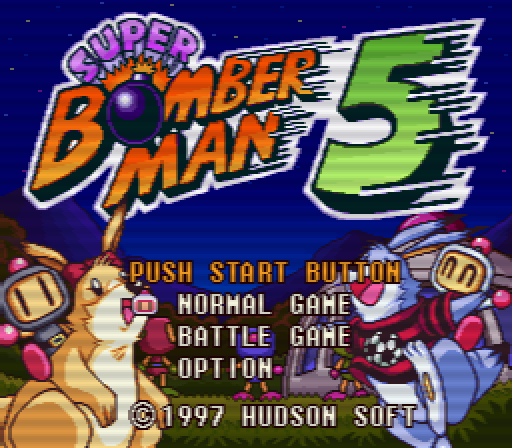
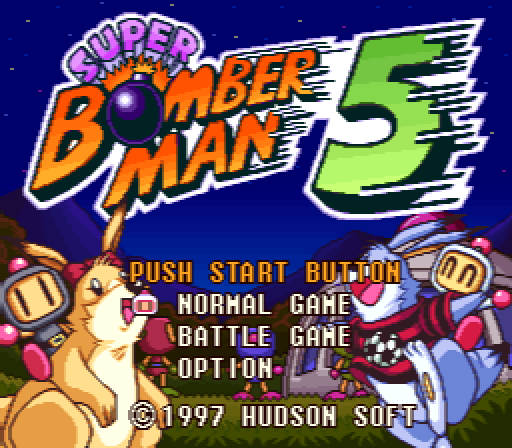
metroid progress

Changed region(s): [[0.0, 0.0312, 1.0, 1.0], [0.6562, 0.875, 0.6875, 0.9062]]

diff --git a/main.py b/main.py
@@ -63,6 +63,7 @@ def apply_crt_filter(filepath, scale = 1, blur=True, scanlines=True):
     img = cv2.imread(filepath)
     # Resize image
     height, width = img.shape[:2]
+    print(filename,height,width)
     new_h, new_w = 0,0
     if 0 < scale and scale < 1 and type(scale) == float:
         new_h = (int)(height/scale)
@@ -92,18 +93,27 @@ def apply_crt_filter(filepath, scale = 1, blur=True, scanlines=True):
     # alpha = 0.05
     # offset division = 5
     
-    if blur:
-        img_crt = cv2.blur(img_crt, (2,1))
+    # if blur:
+    #     img_crt = cv2.blur(img_crt, (2,1))
 
-    # Apply horizontal scanlines
-    if scanlines:
-        overlay = img_crt.copy()
-        num = 8
-        alpha = 0.05
-        for i in range(num+1):
-            temp = apply_scanlines(overlay,num,inplace=False,offset=num-i)
-            offset = (num-i)/12
-            img_crt = cv2.addWeighted(temp, alpha+offset, img_crt, 1-alpha-offset, 0)
+    # Apply basic scanlines
+    for i in range(height//2):
+        img_crt = cv2.line(img_crt, (0,i*2), (width,i*2),(0,0,0),1)
+    # Upscale to twice its regular resolution for subpixel detail
+    img_crt = cv2.resize(img_crt, (width*2,height*2), interpolation=cv2.INTER_NEAREST)
+    # Apply blur to simulate dithering
+    img_crt = cv2.GaussianBlur(img_crt,(7,1),1.5)
+    img_crt = cv2.GaussianBlur(img_crt,(1,3),0)
+
+    # # Apply horizontal scanlines
+    # if scanlines:
+    #     overlay = img_crt.copy()
+    #     num = 8
+    #     alpha = 0.05
+    #     for i in range(num+1):
+    #         temp = apply_scanlines(overlay,num,inplace=False,offset=num-i)
+    #         offset = (num-i)/12
+    #         img_crt = cv2.addWeighted(temp, alpha+offset, img_crt, 1-alpha-offset, 0)
     
 
     # Apply blur
@@ -139,16 +149,17 @@ def apply_crt_filter(filepath, scale = 1, blur=True, scanlines=True):
     # img_crt = overlayImages(img_crt,img_bilateral,0)
 
     # Resize back to original size
-    img_crt = cv2.resize(img_crt, (width,height), interpolation=cv2.INTER_NEAREST)
+    # img_crt = cv2.resize(img_crt, (width,height), interpolation=cv2.INTER_NEAREST)
     # Save output
     cv2.imwrite('output/crt/'+filename+'.png',img_crt)
 
 # apply_crt_filter('assets/jpg/sonic.jpg')
 # apply_crt_filter('assets/png/sonic2.png')
-for image_path in os.listdir('assets\\png'):
-    apply_crt_filter('assets/png/'+image_path,2)
-apply_crt_filter('assets/png/sonic2.png')
-apply_crt_filter('assets/png/celeste.png',6)
+# for image_path in os.listdir('assets\\png'):
+#     apply_crt_filter('assets/png/'+image_path,2,scanlines=False)
+# apply_crt_filter('assets/png/sonic2.png')
+# apply_crt_filter('assets/png/celeste.png',6)
+apply_crt_filter('assets/png/super_metroid.png')
 # apply_crt_filter('assets/png/peach.png', 6, 2)
 
 
